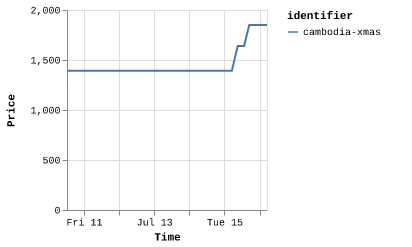
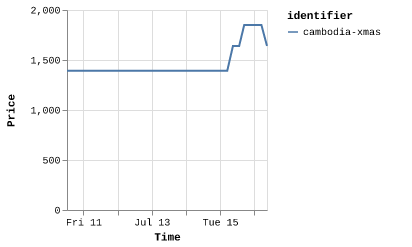
Latest scraping flights: Wed Jul 16 08:57:15 UTC 2025

diff --git a/scrapes/flights/cambodia-xmas.md b/scrapes/flights/cambodia-xmas.md
@@ -1,1 +1,1 @@
-€1,850
+€1,641
